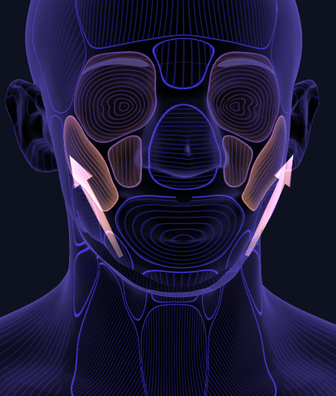
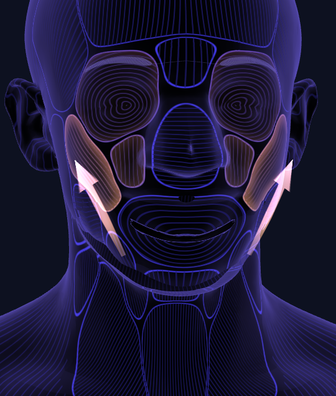
Gesichts-Stretch: warm-up with the mouth wide open in an O, cheeks and upper lip drawn down (design 51867b4)
Claude-Session: https://claude.ai/code/session_01VKNZJg7EmqarPhLXpg8Sv2

diff --git a/src/exercises.ts b/src/exercises.ts
@@ -213,5 +213,62 @@ export const CHEEK_LIFT_DEMO: FaceExercise = {
   repetitions: 1,
 }
 
-/** All exercises, in the order of the overview. */
-export const EXERCISES: FayoExercise[] = [BROW_LIFT, EYE_SMOOTHER, CHEEK_LIFT]
+const STRETCH = {
+  jaw: 1,
+  orbicularisOris: 0.7,
+  'zygomaticusLeft.down': 1,
+  'zygomaticusRight.down': 1,
+  'levatorLabiiLeft.down': 1,
+  'levatorLabiiRight.down': 1,
+  masseterLeft: 0.6,
+  masseterRight: 0.6,
+}
+
+/**
+ * "Gesichts-Stretch" (warm-up): the mouth opens wide with the lips rounded to an O, the cheeks and the
+ * upper lip are drawn down and the jaw hangs long, which stretches the lifting muscles of the mid face.
+ */
+export const FACE_STRETCH: FayoExercise = {
+  id: 'face-stretch',
+  title: 'Gesichts-Stretch',
+  target: 'Aufwärmen',
+  blurb: 'Mund weit zum O öffnen, Wangen und Oberlippe nach unten ziehen.',
+  minutes: '1 Minute',
+  lead: 'Dehnt Wangen, Oberlippe und Kiefer: Mund weit zu einem O öffnen und das Gesicht sanft lang nach unten ziehen. Gut vor den anderen Übungen.',
+  fine: '5 Wiederholungen. Nur so weit öffnen, wie es angenehm ist. Bei Kiefergelenksbeschwerden weglassen.',
+  card: 'cards/face-stretch',
+  get demo() {
+    return FACE_STRETCH_DEMO
+  },
+  focus: 1.535,
+  intro: [{ label: 'Ankommen', cue: 'Schultern locker, Kiefer locker, Zunge liegt entspannt.', durationMs: 4000, muscles: {} }],
+  steps: [
+    { label: 'Öffnen', cue: 'Mund weit öffnen und die Lippen zu einem O formen.', durationMs: 2500, muscles: STRETCH },
+    { label: 'Ziehen', cue: 'Wangen und Oberlippe nach unten ziehen, das Gesicht wird lang. Halten.', durationMs: 5000, muscles: STRETCH, pulse: 0.1 },
+    { label: 'Lösen', cue: 'Langsam schließen und locker lassen.', durationMs: 2500, muscles: {} },
+    { label: 'Pause', cue: 'Durchatmen.', durationMs: 2000, muscles: {} },
+  ],
+  repetitions: 5,
+  arrows: [
+    // The cheeks and the upper lip are drawn down, the jaw drops.
+    { from: [0.056, 1.578, 0.082], to: [0.054, 1.536, 0.088], bow: 0.006 },
+    { from: [0.013, 1.548, 0.1], to: [0.013, 1.526, 0.102], bow: 0.004 },
+    { from: [0, 1.488, 0.098], to: [0, 1.452, 0.09], bow: 0.006, single: true },
+  ],
+  arrowsFollow: 'jaw',
+  follow: { by: 'jaw', areas: { mentalis: 0.4, nasalis: 0.2, buccinatorLeft: 0.4, buccinatorRight: 0.4 } },
+}
+
+export const FACE_STRETCH_DEMO: FaceExercise = {
+  id: 'face-stretch-demo',
+  steps: [
+    { label: '1 · Locker', cue: 'Kiefer und Schultern locker.', durationMs: 2600, muscles: {} },
+    { label: '2 · Öffnen', cue: 'Mund weit zum O öffnen.', durationMs: 2400, muscles: STRETCH },
+    { label: '3 · Ziehen', cue: 'Wangen und Oberlippe nach unten, halten.', durationMs: 3200, muscles: STRETCH, pulse: 0.1 },
+    { label: '4 · Lösen', cue: 'Langsam schließen.', durationMs: 2600, muscles: {} },
+  ],
+  repetitions: 1,
+}
+
+/** All exercises, in the order of the overview: the warm-up first. */
+export const EXERCISES: FayoExercise[] = [FACE_STRETCH, BROW_LIFT, EYE_SMOOTHER, CHEEK_LIFT]
